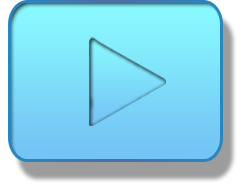
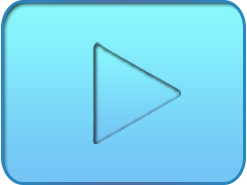
Version beta 3.1.1
Se cambio el boton de inicio

diff --git a/Carrera/main.py b/Carrera/main.py
@@ -73,12 +73,16 @@ class MainWindow(QMainWindow):
         self.setCentralWidget(widget)
 
 # ------------------------------------------Boton------------------------------------------------#
-    
-        self.Comenzar = QPushButton("Comenzar! ",self)
+        botn = QPixmap("Imagenes\Boton.png")
+        botn = botn.scaled(150, 115)
+        ico = QIcon(botn)
+        self.Comenzar = QPushButton(self)
+        self.Comenzar.setIcon(ico)
+        self.Comenzar.setIconSize(pixmap.rect().size())
         self.Comenzar.setSizePolicy(QSizePolicy.Expanding, QSizePolicy.Expanding)
-        self.Comenzar.setStyleSheet("border-radius: 5px; color: Blue; background:cyan; border: 2px solid white;")
-        self.Comenzar.resize(190, 100)
-        self.Comenzar.move(int(1250 / 2 - 190 / 2), int(820 / 2 - 40 / 2))
+        self.Comenzar.setStyleSheet("border-radius: 30px; color: Blue; background:cyan; border: 2px solid white;")
+        self.Comenzar.resize(148, 115) #(245, 185)
+        self.Comenzar.move(int(1320 / 2 - 220 / 2), int(820 / 2 - 140 / 2))
         self.Comenzar.clicked.connect(self.iniciarCarrera)
         #self.Comenzar.clicked.connect(self.ganador) (Evento para probar la ventana)
 
@@ -213,7 +217,7 @@ class podio(QMainWindow):
         widget.setLayout(lo)
         self.setCentralWidget(widget)
 
-        #winner = False (Para probar las posiciones)
+        winner = False #(Para probar las posiciones)
 #------------------------------------Animales------------------------------------------------------"
         mapLiebre = QPixmap("Imagenes\Liebre.png")
         mapLiebre = mapLiebre.scaled(320, 320, Qt.KeepAspectRatio, Qt.FastTransformation)
